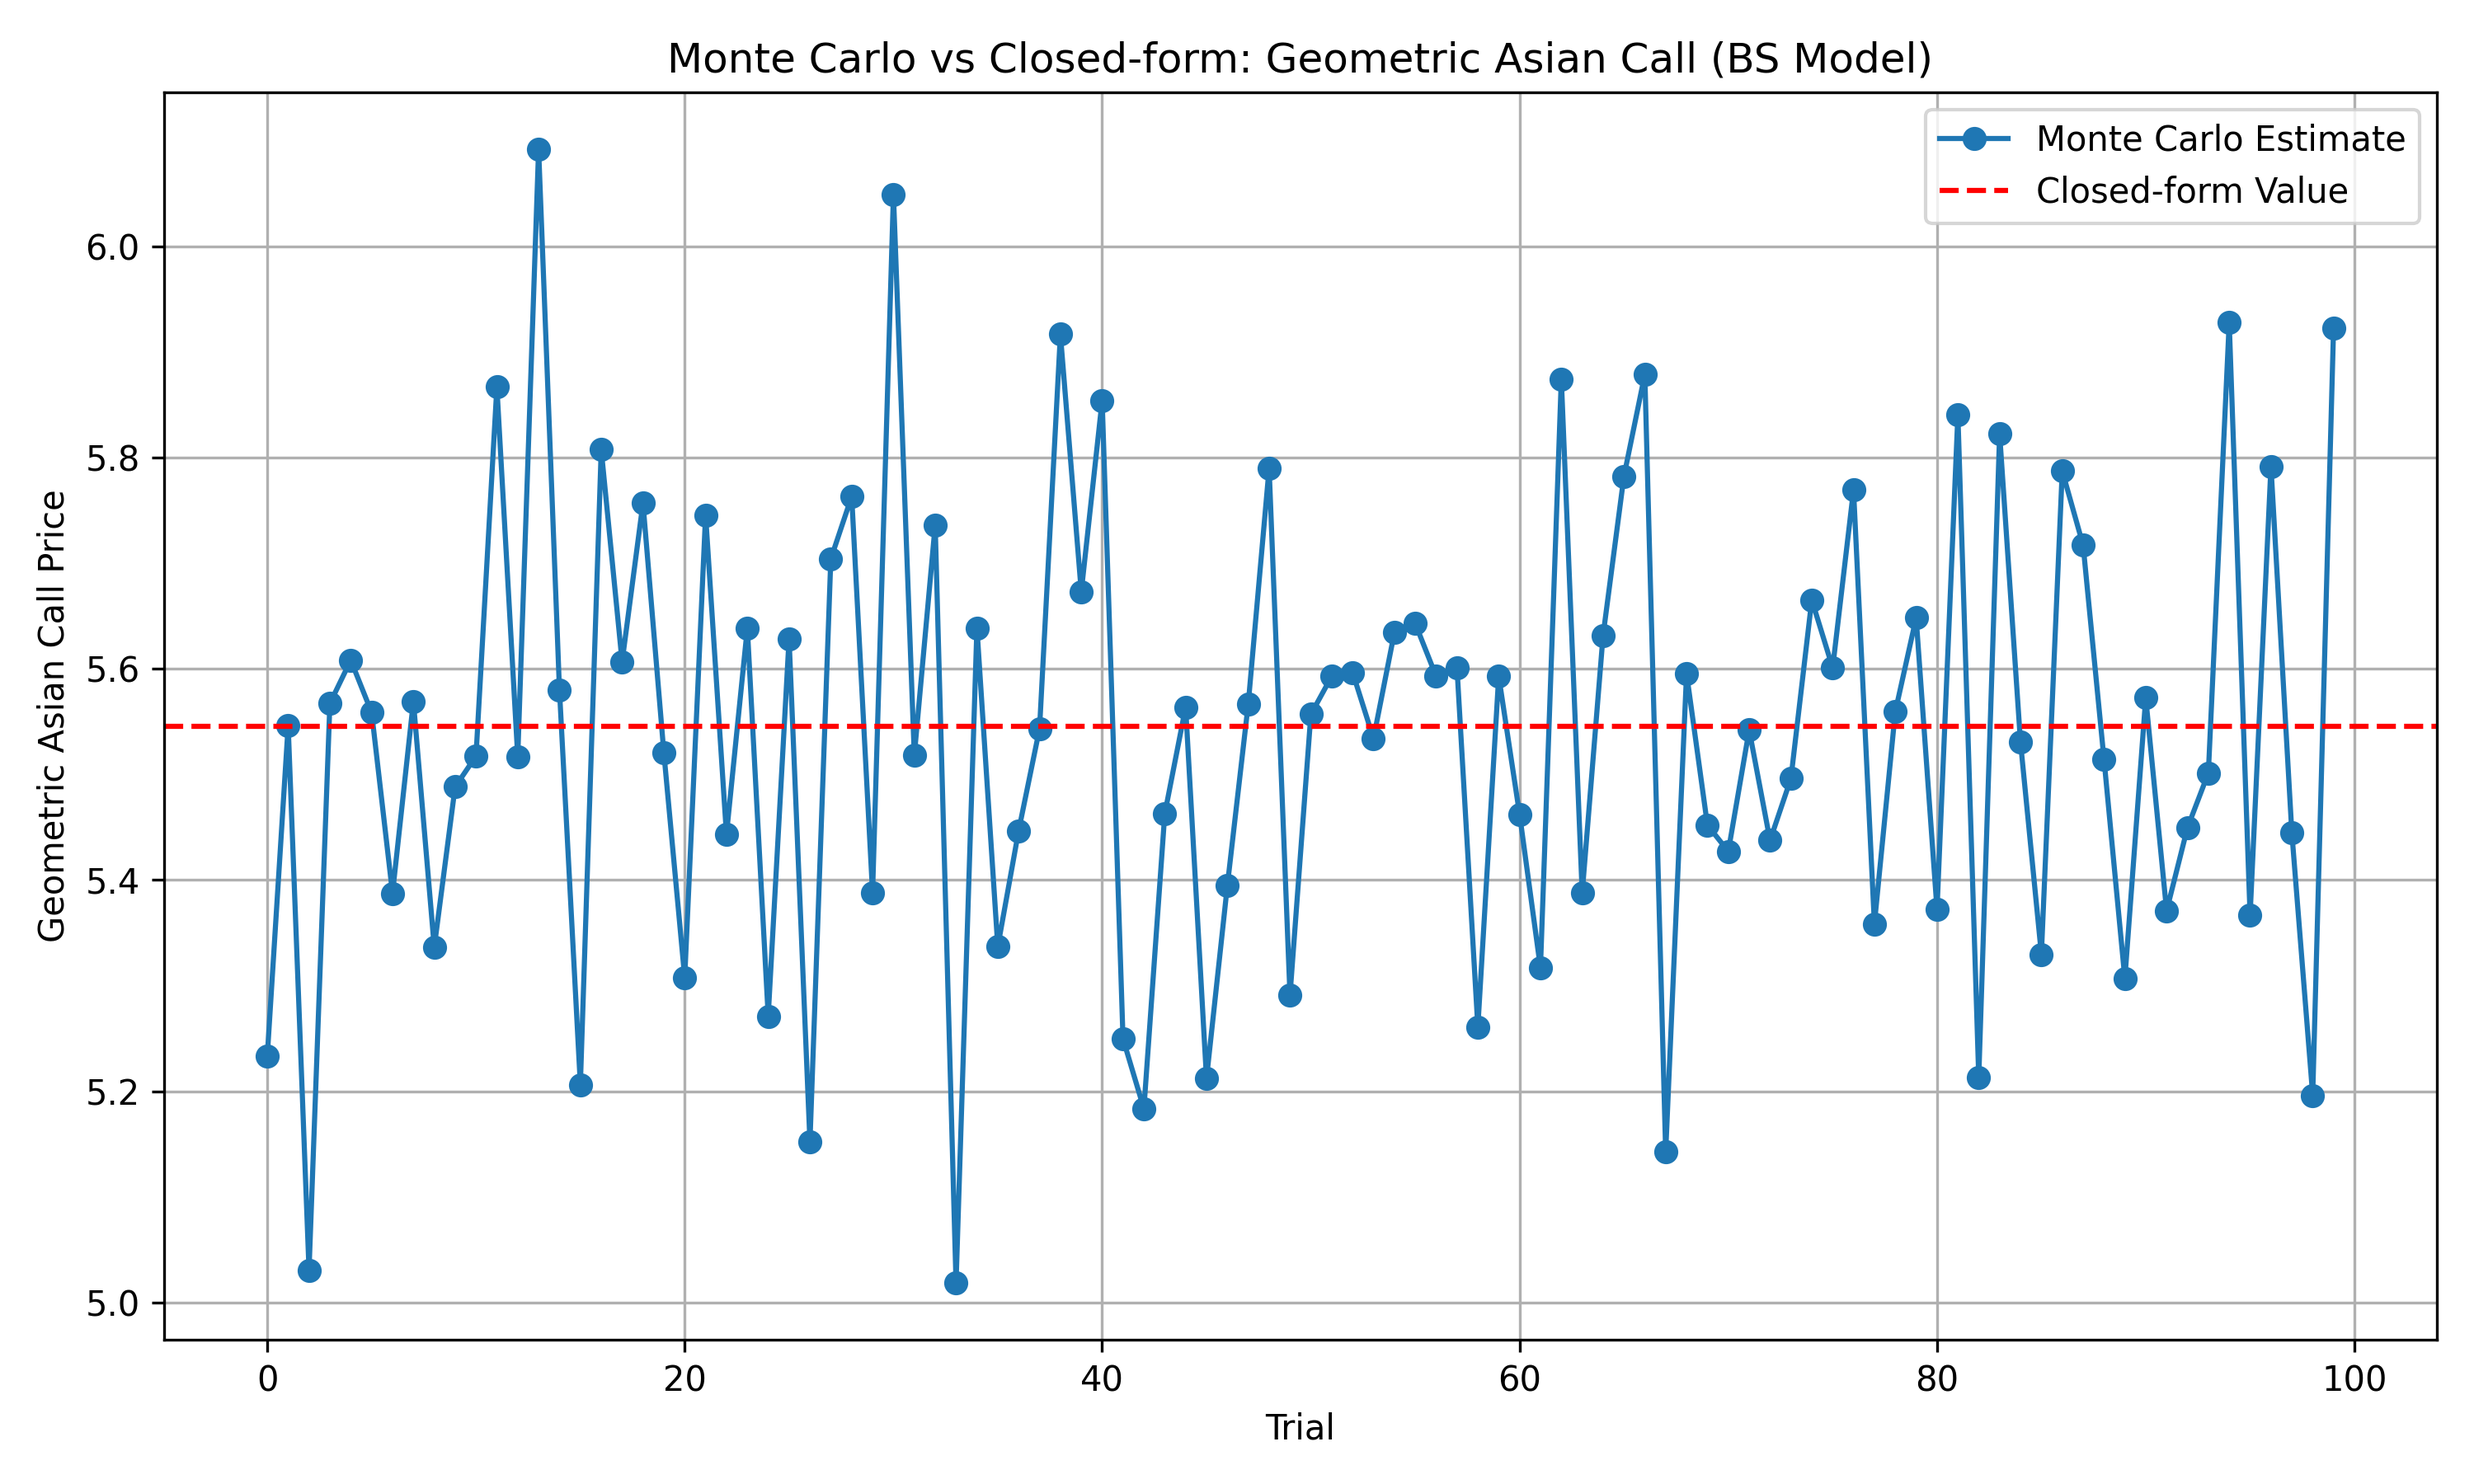
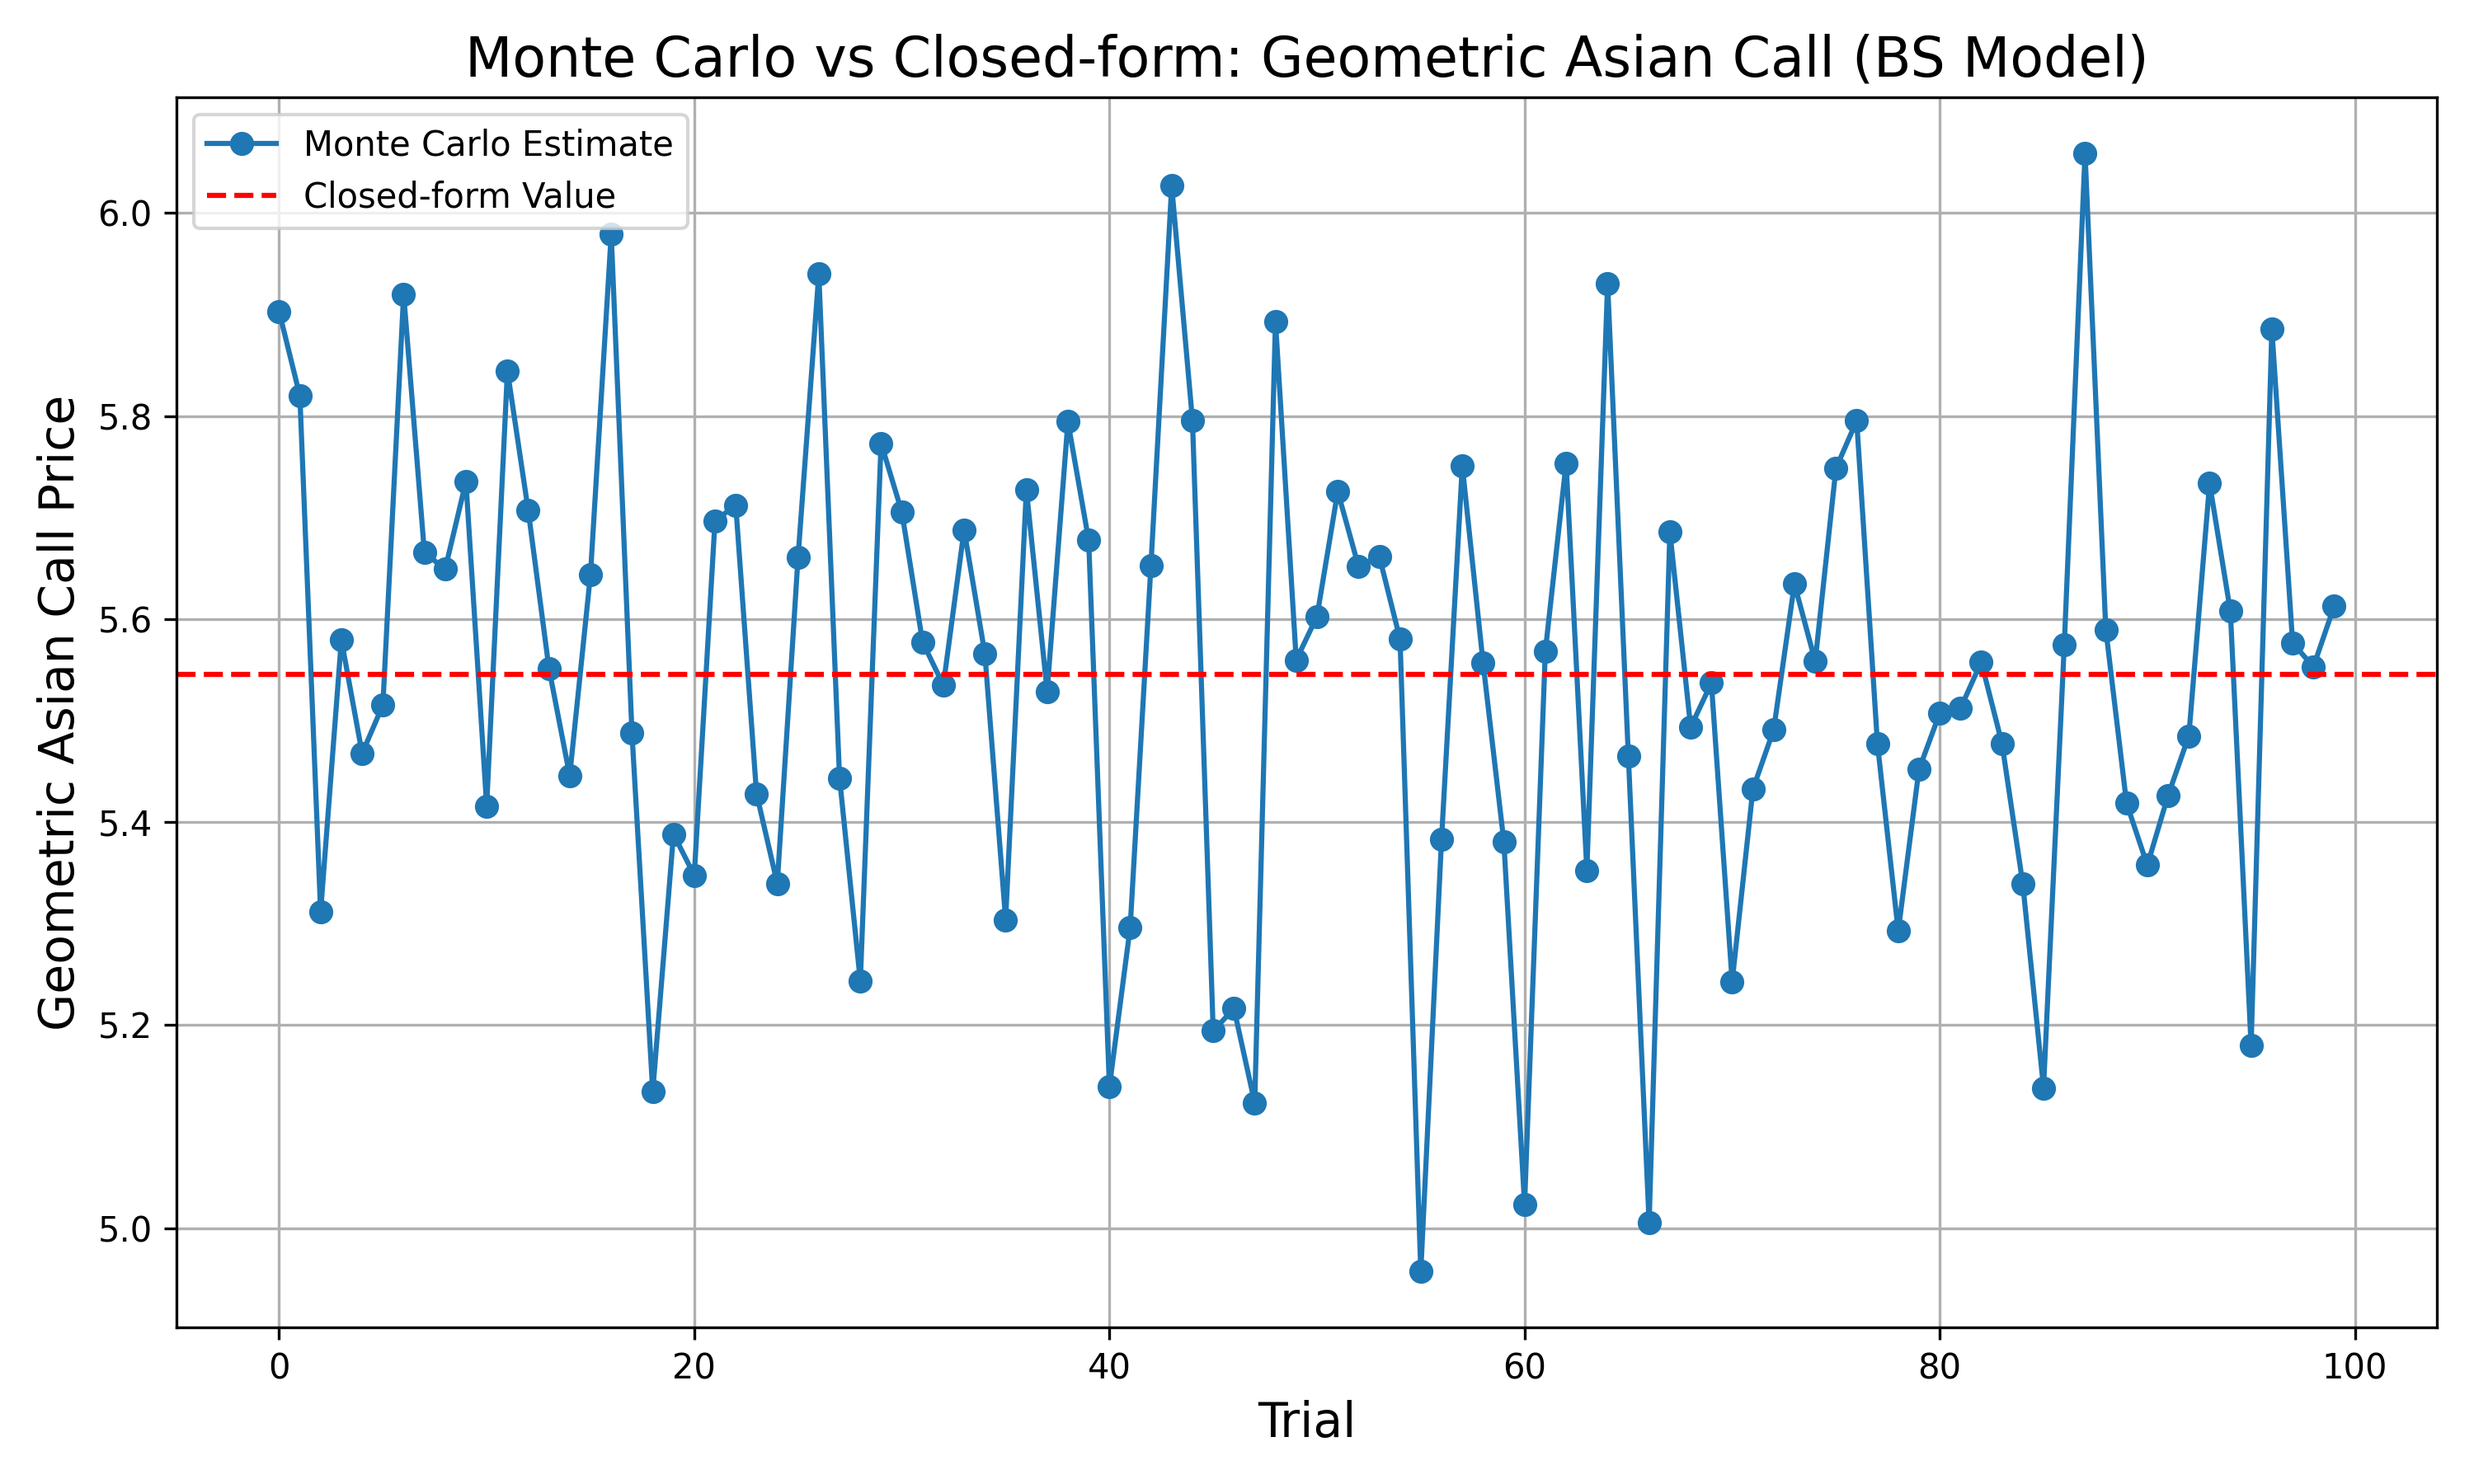
modify task 2 part 12

diff --git a/assignment2/task2/t1_1_sv_generator.py b/assignment2/task2/t1_1_sv_generator.py
@@ -167,6 +167,46 @@ if __name__ == "__main__":
     M = 1000
     K = 100
 
+    # Step 1: Simulate Heston paths with Euler and Milstein schemes
+    # 固定随机种子以便两个图用同一组随机数
+    time_grid = np.linspace(0, T, N + 1)
+    np.random.seed(42)
+    Z1_all = [np.random.randn(M) for _ in range(N)]
+    Z2_all = [np.random.randn(M) for _ in range(N)]
+
+    # 欧拉法路径模拟
+    S_euler, _ = simulate_heston_paths(S0, V0, r, kappa, theta, xi, rho, T, N, M,
+                                    scheme='euler', Z1_list=Z1_all, Z2_list=Z2_all)
+
+    # 米尔斯坦法路径模拟
+    S_milstein, _ = simulate_heston_paths(S0, V0, r, kappa, theta, xi, rho, T, N, M,
+                                        scheme='milstein', Z1_list=Z1_all, Z2_list=Z2_all)
+
+    # 绘图：Euler
+    plt.figure(figsize=(10, 5))
+    for i in range(M):
+        plt.plot(time_grid, S_euler[i], lw=1)
+    plt.title('Monte Carlo Paths under Heston Model (Euler Scheme)', fontsize=16)
+    plt.xlabel('Time', fontsize=14)
+    plt.ylabel('Stock Price $S_t$', fontsize=14)
+    plt.grid(True)
+    plt.tight_layout()
+    plt.savefig("monte_carlo_paths_euler.png", dpi=300)
+    plt.close()
+
+    # 绘图：Milstein
+    plt.figure(figsize=(10, 5))
+    for i in range(M):
+        plt.plot(time_grid, S_milstein[i], lw=1)
+    plt.title('Monte Carlo Paths under Heston Model (Milstein Scheme)', fontsize=16)
+    plt.xlabel('Time', fontsize=14)
+    plt.ylabel('Stock Price $S_t$', fontsize=14)
+    plt.grid(True)
+    plt.tight_layout()
+    plt.savefig("monte_carlo_paths_milstein.png", dpi=300)
+    plt.close()
+
+    # step 2
     num_trials = 30
     prices_euler = []
     prices_milstein = []
@@ -199,9 +239,9 @@ if __name__ == "__main__":
     plt.figure(figsize=(10, 6))
     plt.plot(prices_euler, label='Euler Scheme', marker='o')
     plt.plot(prices_milstein, label='Milstein Scheme', marker='x')
-    plt.xlabel('Trial')
-    plt.ylabel('Estimated Price')
-    plt.title('Heston-based Arithmetic Asian Option Estimates\nEuler vs Milstein Schemes')
+    plt.xlabel('Trial', fontsize=14)
+    plt.ylabel('Estimated Price', fontsize=14)
+    plt.title('Heston-based Arithmetic Asian Option Estimates\nEuler vs Milstein Schemes', fontsize=16)
     plt.legend()
     plt.grid(True)
     plt.tight_layout()
@@ -252,9 +292,9 @@ if __name__ == "__main__":
 
     # 设置横轴
     plt.xticks(indices, [str(i + 1) for i in range(num_trials)])
-    plt.xlabel('Trial')
-    plt.ylabel('Standard Error of Monte Carlo Estimate')
-    plt.title('Standard Error per Trial: Euler vs Milstein')
+    plt.xlabel('Trial', fontsize=14)
+    plt.ylabel('Standard Error of Monte Carlo Estimate', fontsize=14)
+    plt.title('Standard Error per Trial: Euler vs Milstein', fontsize=16)
     plt.legend()
     plt.grid(True, axis='y', linestyle='--', alpha=0.5)
     plt.tight_layout()

diff --git a/assignment2/task2/t2_analytical_validate.py b/assignment2/task2/t2_analytical_validate.py
@@ -71,9 +71,9 @@ if __name__ == "__main__":
     plt.figure(figsize=(10, 6))
     plt.plot(mc_prices, label='Monte Carlo Estimate', marker='o')
     plt.axhline(true_price, color='r', linestyle='--', label='Closed-form Value')
-    plt.xlabel('Trial')
-    plt.ylabel('Geometric Asian Call Price')
-    plt.title('Monte Carlo vs Closed-form: Geometric Asian Call (BS Model)')
+    plt.xlabel('Trial', fontsize=14)
+    plt.ylabel('Geometric Asian Call Price', fontsize=14)
+    plt.title('Monte Carlo vs Closed-form: Geometric Asian Call (BS Model)', fontsize=16)
     plt.legend()
     plt.grid(True)
     plt.tight_layout()
@@ -86,5 +86,10 @@ if __name__ == "__main__":
     errors = np.array(mc_prices) - true_price
     plt.hist(errors, bins=20, color='gray', alpha=0.7)
     plt.axvline(0, color='red', linestyle='--')
-    plt.title('Distribution of MC Estimation Error')
-    plt.xlabel('Error = MC Estimate - Closed-form')
+    plt.title('Distribution of MC Estimation Error', fontsize=16)
+    plt.xlabel('Error = MC Estimate - Closed-form', fontsize=14)
+    plt.ylabel('Frequency', fontsize=14)
+    plt.grid(True)
+    plt.tight_layout()
+    plt.savefig('error_distribution.png', dpi=300)
+    plt.show()

diff --git a/assignment2/task2/t1_2_validate_GBM.py b/assignment2/task2/t1_2_validate_GBM.py
@@ -49,9 +49,9 @@ for trial in range(num_trials):
 plt.figure(figsize=(10, 6))
 plt.plot(heston_prices, label='Heston (ξ=0)', marker='o')
 plt.plot(gbm_prices, label='GBM', marker='x')
-plt.xlabel('Trial')
-plt.ylabel('Estimated Price')
-plt.title('Arithmetic Asian Option Price Estimates: Heston (ξ=0) vs GBM')
+plt.xlabel('Trial', fontsize=14)
+plt.ylabel('Estimated Price', fontsize=14)
+plt.title('Arithmetic Asian Option Price Estimates: Heston (ξ=0) vs GBM', fontsize=16)
 plt.legend()
 plt.grid(True)
 plt.tight_layout()
